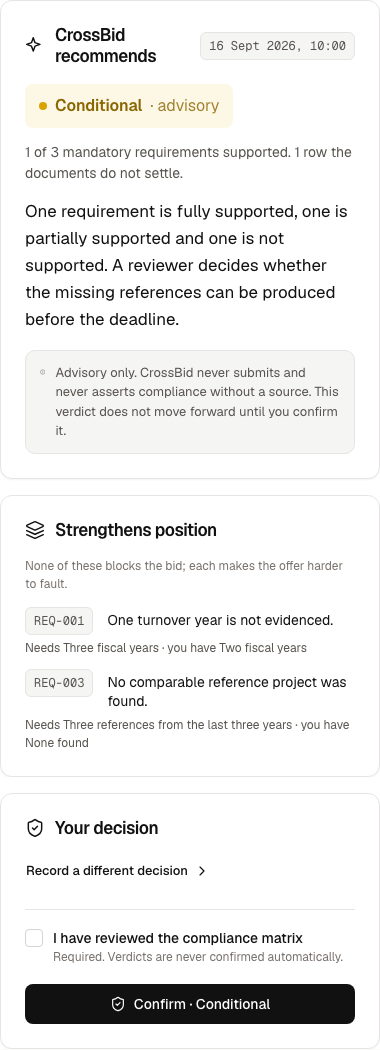
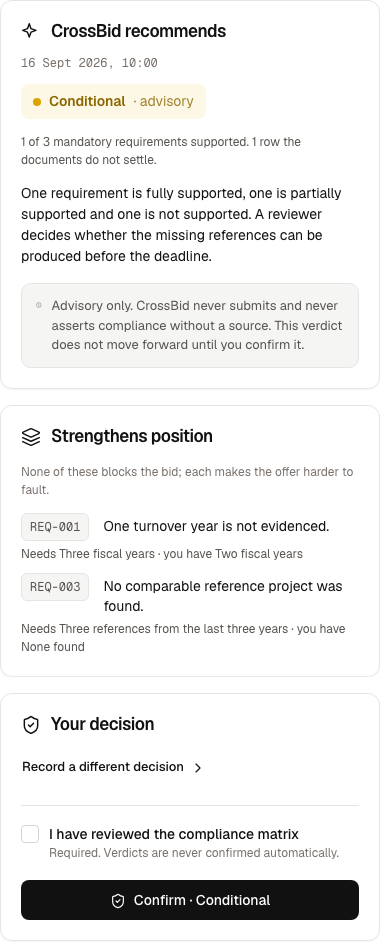
fix(bids): the verdict rail is set for the column it is in
VerdictPanel was drawn for Verdict.dc.html, a full screen whose left column is
about 640px. ADR-0104 put it in a 380px rail and ADR-0106 reorganised it, and
neither touched its type — so it kept the sizes of the page it left, beside a
matrix set at 14px.

The rationale was --type-body-lg (17px) where the Ask panel's answer, the same
kind of text, is 14px. The chip was lg (16px); nothing else in the app uses lg.
The count sentence was 14px where the identical sentence in DecisionLine is
12px. Cards were 24px where ask-panel, source-panel and the rail's own
placeholder card all use 20px.

Two facts made the diagnosis exact. --type-h4 and --type-body-lg are both 17px,
so in RecommendationCard the title and the body were the same size and differed
only in weight — the card had no internal hierarchy. And the rail already
contained a 20px/12px card: the placeholder shown before a verdict exists. The
panel that replaced it jumped to 24px/17px, so the rail was inconsistent with
itself. Separately "CrossBid recommends" wrapped onto two lines, because Card
puts actions on the title's own flex row and the timestamp Tag never shrinks.

Card titles deliberately stay at 17px, against the option first agreed. The
design system names that size, the rail's titles are already identical to "Ask
the tender" beside them, and no component in this repo varies font size by prop
— every existing density prop is a touch-target axis, so a type axis would have
[…]

diff --git a/frontend/components/bids/verdict-panel.tsx b/frontend/components/bids/verdict-panel.tsx
@@ -112,8 +112,10 @@ export function VerdictPanel({
   const isRail = layout === 'rail'
   const evidence = (
     <>
-      <RecommendationCard bid={current} verdict={verdict} />
-      {verdict !== undefined && <VerdictGaps gaps={verdict.gaps} labels={labels} />}
+      <RecommendationCard bid={current} verdict={verdict} isCompact={isRail} />
+      {verdict !== undefined && (
+        <VerdictGaps gaps={verdict.gaps} labels={labels} isCompact={isRail} />
+      )}
     </>
   )
   const decision = (
@@ -123,10 +125,11 @@ export function VerdictPanel({
           bid={state.bid}
           decision={submittedDecision}
           onBackToMatrix={onBackToMatrix}
+          isCompact={isRail}
         />
       )}
       {state.phase === 'conflict' && (
-        <ConflictCard bid={state.bid} onBackToMatrix={onBackToMatrix} />
+        <ConflictCard bid={state.bid} onBackToMatrix={onBackToMatrix} isCompact={isRail} />
       )}
       {(state.phase === 'editing' || state.phase === 'submitting') &&
         (isAwaitingReview(bid) ? (
@@ -141,7 +144,7 @@ export function VerdictPanel({
             isCompact={isRail}
           />
         ) : (
-          <NotParkedCard bid={bid} onBackToMatrix={onBackToMatrix} />
+          <NotParkedCard bid={bid} onBackToMatrix={onBackToMatrix} isCompact={isRail} />
         ))}
     </>
   )
@@ -168,7 +171,19 @@ export function VerdictPanel({
             as well means it is on screen from the first paint and stays there — measured at
             y=1257 (off screen) without this line and y=860 with it. The card is opaque, so
             the evidence scrolls under it rather than through it. */}
-        <div className="sticky bottom-0 max-h-[60%] shrink-0 overflow-y-auto">{decision}</div>
+        <div className="sticky bottom-0 shrink-0">
+          {/* The evidence slides *under* the pinned decision, and without this it was simply
+              guillotined — a sentence cut mid-word against an opaque card edge, which reads as
+              a rendering fault rather than as a layer. A short fade to the frame's own colour
+              is the design system's `--protect-gradient` idea applied to a white ground. */}
+          <div
+            aria-hidden="true"
+            className="pointer-events-none absolute inset-x-0 -top-5 h-5 bg-[linear-gradient(to_bottom,transparent,var(--surface-card))]"
+          />
+          {/* `dvh` rather than the `60%` this used to be: the percentage resolved against a
+              parent with no definite height, so it constrained nothing. */}
+          <div className="max-h-[60dvh] overflow-y-auto">{decision}</div>
+        </div>
       </div>
     )
   }
@@ -207,17 +222,27 @@ function announce(phase: ReviewState['phase']): string {
 function RecommendationCard({
   bid,
   verdict,
+  isCompact = false,
 }: {
   readonly bid: BidResponse
   readonly verdict: Verdict | undefined
+  readonly isCompact?: boolean
 }) {
   const stamp = formatDateTime(bid.updated_at ?? bid.created_at)
+  const hasStamp = stamp !== '—'
   return (
     <Card
       title="CrossBid recommends"
       icon={<Icon name="spark" size={20} />}
-      actions={stamp === '—' ? undefined : <Tag mono>{stamp}</Tag>}
+      padding={isCompact ? 20 : 24}
+      // In the rail the stamp comes out of the header row. `Card` puts `actions` beside the
+      // title and the `Tag` never shrinks, so at 380 px "CrossBid recommends" wrapped onto two
+      // lines — and a run stamp is not a peer of the card's name in any case (ADR-0108).
+      actions={hasStamp && !isCompact ? <Tag mono>{stamp}</Tag> : undefined}
     >
+      {isCompact && hasStamp && (
+        <p className="m-0 -mt-1 mb-3 [font:var(--type-mono)] text-text-muted">{stamp}</p>
+      )}
       {verdict === undefined ? (
         <p className="m-0 text-text-secondary">
           The agent has not scored this bid, so there is no recommendation to confirm. Any
@@ -226,12 +251,29 @@ function RecommendationCard({
       ) : (
         <>
           <div className="mb-3.5 flex flex-wrap items-center gap-3.5">
-            <VerdictChip verdict={verdict.decision} size="lg" advisory />
-            <span className="[font:var(--type-body)] text-text-secondary">
+            {/* `lg` is 16 px and `whitespace-nowrap`, which in a 332 px content box also
+                pushed the count onto its own line. `md` is the page's own body size. */}
+            <VerdictChip verdict={verdict.decision} size={isCompact ? 'md' : 'lg'} advisory />
+            <span
+              className={cn(
+                'text-text-secondary',
+                // The same sentence lives at 12 px in `decision-line.tsx`, which is what it is:
+                // a caption under the chip rather than a second paragraph.
+                isCompact ? '[font:var(--type-body-sm)]' : '[font:var(--type-body)]'
+              )}
+            >
               {countSentence(verdict)}
             </span>
           </div>
-          <p className="m-0 [font:var(--type-body-lg)] [overflow-wrap:anywhere]">
+          {/* `--type-body-lg` is 17 px — the same size as the card's own title, which is why
+              the card read as one undifferentiated block. `--type-body` is what `ask-panel`
+              already uses for the equivalent long-form answer. */}
+          <p
+            className={cn(
+              'm-0 [overflow-wrap:anywhere]',
+              isCompact ? '[font:var(--type-body)]' : '[font:var(--type-body-lg)]'
+            )}
+          >
             {verdict.rationale}
           </p>
         </>
@@ -257,20 +299,25 @@ function RecordedCard({
   bid,
   decision,
   onBackToMatrix,
+  isCompact = false,
 }: {
   readonly bid: BidResponse
   readonly decision: Decision | undefined
   readonly onBackToMatrix?: () => void
+  readonly isCompact?: boolean
 }) {
   const status = BID_STATUS_LABELS[bid.status]
   return (
     <Card
       title="Your decision is recorded"
       icon={<Icon name="check" size={20} />}
+      padding={isCompact ? 20 : 24}
       actions={<Badge tone={status.tone}>{status.label}</Badge>}
     >
       <p className="m-0 mb-3.5 flex flex-wrap items-center gap-3">
-        {decision !== undefined && <VerdictChip verdict={decision} size="lg" confirmed />}
+        {decision !== undefined && (
+          <VerdictChip verdict={decision} size={isCompact ? 'md' : 'lg'} confirmed />
+        )}
         <span className="text-text-secondary">
           Submitted with {plural(bid.matrix_rows.length, 'matrix row')}.
         </span>
@@ -296,15 +343,18 @@ function RecordedCard({
 function ConflictCard({
   bid,
   onBackToMatrix,
+  isCompact = false,
 }: {
   readonly bid: BidResponse | undefined
   readonly onBackToMatrix?: () => void
+  readonly isCompact?: boolean
 }) {
   const status = bid === undefined ? undefined : BID_STATUS_LABELS[bid.status]
   return (
     <Card
       title="This review was not submitted"
       icon={<Icon name="alert" size={20} />}
+      padding={isCompact ? 20 : 24}
       actions={
         status === undefined ? undefined : <Badge tone={status.tone}>{status.label}</Badge>
       }
@@ -330,15 +380,18 @@ function ConflictCard({
 function NotParkedCard({
   bid,
   onBackToMatrix,
+  isCompact = false,
 }: {
   readonly bid: BidResponse
   readonly onBackToMatrix?: () => void
+  readonly isCompact?: boolean
 }) {
   const status = BID_STATUS_LABELS[bid.status]
   return (
     <Card
       title="Your decision"
       icon={<Icon name="shield" size={20} />}
+      padding={isCompact ? 20 : 24}
       actions={<Badge tone={status.tone}>{status.label}</Badge>}
     >
       <Notice tone={bid.status === 'failed' ? 'danger' : 'neutral'} title={status.label}>

diff --git a/frontend/e2e/bid-workspace.spec.ts b/frontend/e2e/bid-workspace.spec.ts
@@ -394,6 +394,63 @@ test.describe('Bid workspace — the desktop layout of ADR-0104', () => {
   })
 
   /**
+   * The rail is set for the column it is in, not the one it was drawn for (ADR-0108).
+   *
+   * `VerdictPanel` was drawn for `Verdict.dc.html`, a full screen whose left column is ~640 px.
+   * At 380 px it kept that type: the rationale at `--type-body-lg` is **17 px**, the same size
+   * as the card's own title, beside a matrix set at 14 px — so the rail read as a different,
+   * louder document than the page it sits on.
+   *
+   * Asserted as an invariant rather than as `toBe(14)`, because pinning the number would make
+   * a token change look like a regression. What matters is the relationship: the rail's body
+   * is no louder than the page's body.
+   *
+   * Measured red against `--type-body-lg`: 17 px against the matrix's 14.
+   */
+  test('the rail’s body text is no larger than the matrix’s', async ({ page }) => {
+    const fontSize = async (locator: import('@playwright/test').Locator): Promise<number> =>
+      locator.evaluate((element) => Number.parseFloat(getComputedStyle(element).fontSize))
+
+    const rationale = page.locator('#verdict p', { hasText: /mandatory requirement/ }).last()
+    const rail = await fontSize(
+      page
+        .locator('#verdict')
+        .getByText(/A reviewer decides|requirement is/)
+        .first()
+    )
+    const matrix = await fontSize(
+      page.getByRole('button', { name: /Mindestjahresumsatz/ }).first()
+    )
+
+    expect(rail, `the rail is ${rail}px against the matrix's ${matrix}px`).toBeLessThanOrEqual(
+      matrix
+    )
+    await expect(rationale.or(page.locator('#verdict')).first()).toBeVisible()
+  })
+
+  /**
+   * "CrossBid recommends" fits on one line.
+   *
+   * `Card` puts `actions` on the title's own flex row and the timestamp `Tag` never shrinks, so
+   * at 380 px the title wrapped — a layout bug that reads as a design problem. The stamp now
+   * sits under the title in the rail.
+   *
+   * Measured red by putting the `Tag` back into `actions`: the heading renders at two lines.
+   */
+  test('the recommendation’s title is not wrapped by its timestamp', async ({ page }) => {
+    const heading = page.getByRole('heading', { name: 'CrossBid recommends' })
+    await expect(heading).toBeVisible()
+
+    const lines = await heading.evaluate((element) => {
+      const style = getComputedStyle(element)
+      const lineHeight = Number.parseFloat(style.lineHeight)
+      return element.getBoundingClientRect().height / lineHeight
+    })
+
+    expect(lines, 'the title wrapped onto a second line').toBeLessThan(1.5)
+  })
+
+  /**
    * The rail is `sticky` and scrolls internally rather than leaving the screen. The measured
    * page is 23 204 px tall on the FR bid and a non-sticky column had gone by row 20.
    *

diff --git a/frontend/components/bids/verdict-gaps.tsx b/frontend/components/bids/verdict-gaps.tsx
@@ -1,6 +1,7 @@
 'use client'
 
 import { useState } from 'react'
+import { cn } from 'cn'
 
 import { Button } from '@/components/ui/button'
 import { Card } from '@/components/ui/card'
@@ -29,6 +30,8 @@ export interface VerdictGapsProps {
   readonly gaps: readonly Gap[]
   /** Requirement id → the matrix's display label, from `requirementLabels`. */
   readonly labels: ReadonlyMap<string, string>
+  /** The rail's density: 20 px cards, as every other narrow surface here uses (ADR-0108). */
+  readonly isCompact?: boolean
 }
 
 interface GapSection {
@@ -60,7 +63,7 @@ const SECTIONS: readonly GapSection[] = [
  */
 const SHOWN_BY_DEFAULT = 5
 
-export function VerdictGaps({ gaps, labels }: VerdictGapsProps) {
+export function VerdictGaps({ gaps, labels, isCompact = false }: VerdictGapsProps) {
   return (
     <>
       {SECTIONS.map((section) => {
@@ -74,6 +77,7 @@ export function VerdictGaps({ gaps, labels }: VerdictGapsProps) {
             section={section}
             gaps={listed}
             labels={labels}
+            isCompact={isCompact}
           />
         )
       })}
@@ -85,18 +89,24 @@ function GapSectionCard({
   section,
   gaps,
   labels,
+  isCompact,
 }: {
   readonly section: GapSection
   readonly gaps: readonly Gap[]
   readonly labels: ReadonlyMap<string, string>
+  readonly isCompact: boolean
 }) {
   const [isExpanded, setExpanded] = useState(false)
   const isCapped = gaps.length > SHOWN_BY_DEFAULT
   const shown = isExpanded || !isCapped ? gaps : gaps.slice(0, SHOWN_BY_DEFAULT)
   return (
-    <Card title={section.title} icon={<Icon name={section.icon} size={20} />}>
+    <Card
+      title={section.title}
+      icon={<Icon name={section.icon} size={20} />}
+      padding={isCompact ? 20 : 24}
+    >
       <p className="m-0 mb-3.5 [font:var(--type-body-sm)] text-text-muted">{section.summary}</p>
-      <ul className="m-0 flex list-none flex-col gap-3 p-0">
+      <ul className={cn('m-0 flex list-none flex-col p-0', isCompact ? 'gap-2.5' : 'gap-3')}>
         {shown.map((gap) => (
           <GapLine
             key={`${gap.requirement_id}-${gap.summary}`}

diff --git a/frontend/components/bids/verdict-decision-form.tsx b/frontend/components/bids/verdict-decision-form.tsx
@@ -166,7 +166,12 @@ export function VerdictDecisionForm({
   }
 
   return (
-    <Card title="Your decision" headingLevel="h2" icon={<Icon name="shield" size={20} />}>
+    <Card
+      title="Your decision"
+      headingLevel="h2"
+      icon={<Icon name="shield" size={20} />}
+      padding={isCompact ? 20 : 24}
+    >
       <form onSubmit={handleSubmit} aria-busy={isSubmitting} noValidate>
         {isCompact && (
           // A real disclosure: the control names what it reveals, says whether it is open, and

diff --git a/docs/decisions.md b/docs/decisions.md
@@ -7432,3 +7432,66 @@ by leaving the overlay mounted — so both are known to fail for the defect they
 
 248 frontend unit tests and 42 browser journeys green, plus lint, typecheck, prettier and
 build.
+
+## ADR-0108 — The rail is set for the column it is in, not the one it was drawn for
+
+**Date:** 2026-09-20 · **Stories:** follow-up to S4.5.3 · **Status:** accepted
+**Amends ADR-0104 and ADR-0106**, which moved the verdict panel twice without touching its type.
+
+`VerdictPanel` was drawn for `Verdict.dc.html` — a full 1440×900 screen whose left column is
+about 640 px. It now renders in a 380 px rail beside a matrix set at 14 px, and it kept the type
+of the page it left:
+
+| In the rail | Token | Size | The page beside it |
+|---|---|---|---|
+| The rationale | `--type-body-lg` | **17 px** | the Ask panel's answer — the same kind of text — is **14 px** |
+| The verdict chip | `size="lg"` | **16 px** | body is 14 px; nothing else in the app uses `lg` |
+| The count sentence | `--type-body` | 14 px | the identical sentence in `DecisionLine` is **12 px** |
+| Card padding | default | **24 px** | `ask-panel`, `source-panel` and the rail's own placeholder card use **20 px** |
+
+Two facts make the diagnosis exact. **`--type-h4` and `--type-body-lg` are both 17 px**, so in
+`RecommendationCard` the title and the body were the same size and differed only in weight —
+the card had no internal hierarchy at all. And **the rail already contained a 20 px / 12 px
+card**: the placeholder at `desktop-workspace.tsx:270` shown before a verdict exists. The panel
+that replaced it jumped to 24 px / 17 px, so the rail was inconsistent with itself.
+
+Separately, **"CrossBid recommends" wrapped onto two lines**, because `Card` puts `actions` on
+the title's own flex row and the timestamp `Tag` never shrinks. A layout bug reading as a design
+problem.
+
+### The pass, and what it deliberately did not do
+
+Behind the `layout === 'rail'` flag the panel already carries, so **`wide` is untouched** and
+still renders the artboard at 900–1279 px and on the phone: cards to `padding={20}`, the
+rationale to `--type-body`, the count to `--type-body-sm`, the chip to `size="md"`, and the
+timestamp out of `actions` and under the title as a mono line.
+
+**Card titles stay at 17 px**, against the option that was first agreed. Three reasons, and they
+are the interesting part of this entry. The design system names 17 px semibold for a card title
+(`readme.md:66`, `:97`). The rail's titles are already *identical* to "Ask the tender" beside
+them — they match, and shrinking them would break that. And **no component in this repo varies
+font size by prop**: every existing density prop (`isPhone`, `variant`, `isCompact`) is a
+*touch-target* axis, so a type axis would have been a new concept invented for one card. The
+card read heavy because the **body** was title-sized; fixing the body gives the title its job
+back.
+
+The levers used are the ones the app already has — the `Card` `padding` prop, `VerdictChip`
+`size`, and the existing tokens. No new mechanism.
+
+### A bug this made visible
+
+The pinned decision of ADR-0106 sits over the scrolling evidence, and it had been **cutting the
+paragraph above it mid-word against an opaque card edge** — which reads as a rendering fault
+rather than as a layer. It shows plainly in the regenerated guide shot 03. A short fade to the
+frame's own colour above the footer fixes it: the design system's `--protect-gradient` idea on a
+white ground. The footer's `max-h-[60%]` also became `max-h-[60dvh]`, because a percentage
+resolved against a parent with no definite height and so constrained nothing.
+
+### Tests
+
+Two browser assertions, written as relationships rather than as pixel values so a token change
+cannot look like a regression: **nothing in the rail's recommendation is larger than the
+matrix's own body text**, and **the recommendation's title is one line**. Measured red at 17 px
+against the matrix's 14, and at two lines with the `Tag` back in `actions` (ADR-0063).
+
+248 frontend unit tests and 44 browser journeys green, plus lint, typecheck, prettier and build.

diff --git a/CLAUDE.md b/CLAUDE.md
@@ -6,7 +6,7 @@ This file provides guidance to Claude Code (claude.ai/code) when working with co
 
 **Increments 0 to 4 are complete. Increment 5, the submission evidence, is in progress.**
 Increment 0 (the SP.1 extraction spike) is complete — see `docs/decisions.md` ADR-0003 for the
-recall result and its caveats. The decision log runs to **ADR-0107** with no gaps. **Twelve
+recall result and its caveats. The decision log runs to **ADR-0108** with no gaps. **Twelve
 migrations exist, `0001` through `0012`**, and `0001`–`0011` are applied to Frankfurt;
 **`0012` is not** — it drops `documents.bid_id` and `tender_chunks.bid_id`, is not online-safe,
 and the code on `main` requires it. 0008 and 0009 went on by hand on 2026-09-16, after a
